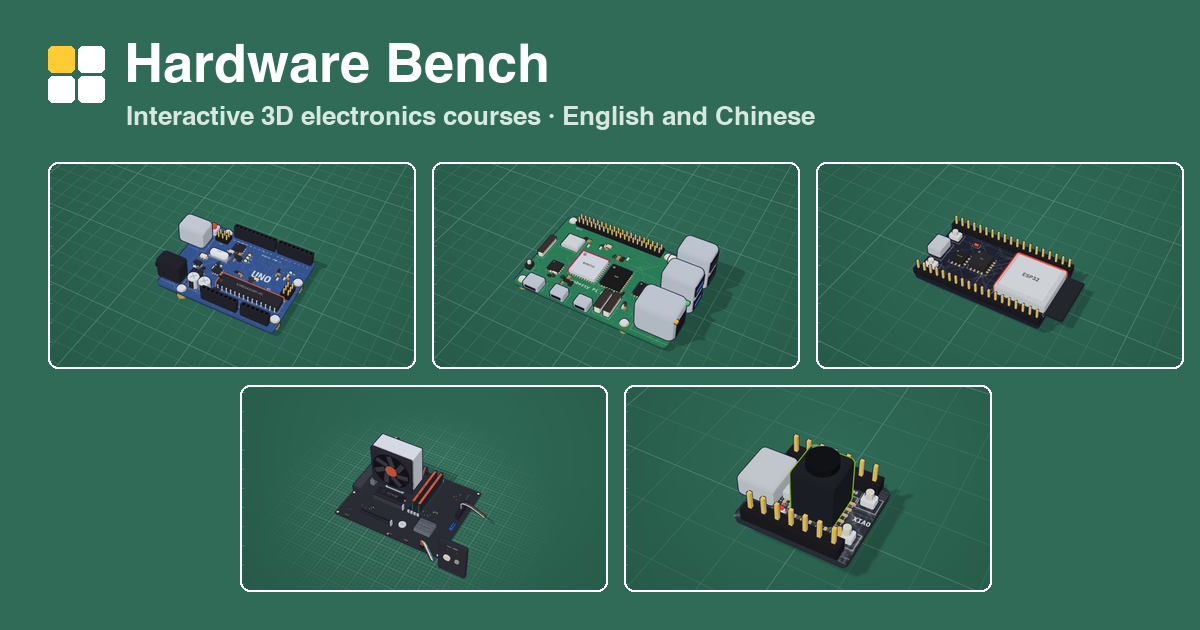
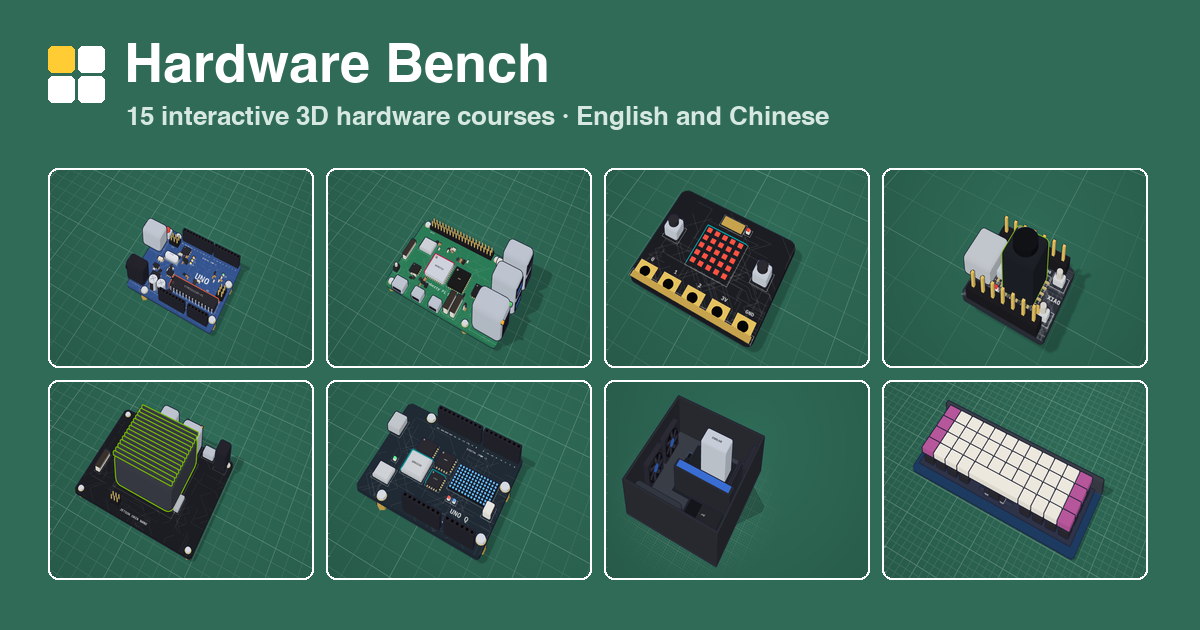
Group the hub into sections, refresh the share card, README, sitemap and skill docs

Changed region(s): [[0.0308, 0.2413, 0.9867, 0.9651], [0.0925, 0.1508, 0.7092, 0.2111], [0.9558, 0.3619, 0.9867, 0.4222]]

diff --git a/boards/boards.js b/boards/boards.js
@@ -6,66 +6,83 @@ export const LINKS = {
 
 // Boards shown on the hub home page. `id` is the folder under boards/. Lesson counts and
 // progress come from each board's content.js, so only presentation lives here.
+// Sections on the hub home page, in order; each board names its section with `group`.
+export const GROUPS = [
+  { id: 'boards', title: 'Development boards' },
+  { id: 'ai', title: 'AI boards' },
+  { id: 'builds', title: 'Hands-on builds' },
+];
+
 export const BOARDS = [
   {
-    id: 'arduino-uno', name: 'Arduino Uno', accent: '#e05a3a', level: 'Beginner', language: 'C++',
+    id: 'arduino-uno', group: 'boards', name: 'Arduino Uno', accent: '#e05a3a', level: 'Beginner', language: 'C++',
     blurb: 'Build a desk gadget in every lesson: traffic light, night light, door chime, ruler, dial gauge and a parking sensor.',
   },
   {
-    id: 'raspberry-pi', name: 'Raspberry Pi 5', accent: '#c51a4a', level: 'Beginner', language: 'Python',
+    id: 'raspberry-pi', group: 'boards', name: 'Raspberry Pi 5', accent: '#c51a4a', level: 'Beginner', language: 'Python',
     blurb: 'A full Linux computer with GPIO pins: Python, cameras, web servers and a weather station.',
   },
   {
-    id: 'esp32', name: 'ESP32-DevKitC', accent: '#e7352c', level: 'Beginner', language: 'MicroPython',
+    id: 'esp32', group: 'boards', name: 'ESP32-DevKitC', accent: '#e7352c', level: 'Beginner', language: 'MicroPython',
     blurb: 'A Wi-Fi microcontroller: flash MicroPython, read sensors and control things from your phone.',
   },
   {
-    id: 'pc-motherboard', name: 'PC build: motherboard', accent: '#3a6dd0', level: 'Beginner', language: 'Hands-on',
+    id: 'pico-2-w', group: 'boards', name: 'Raspberry Pi Pico 2 W', accent: '#c51a4a', level: 'Beginner', language: 'MicroPython',
+    blurb: 'The cheapest way to start: blink, read buttons and knobs, make sounds, then build a Wi-Fi thermometer.',
+  },
+  {
+    id: 'microbit', group: 'boards', name: 'BBC micro:bit V2', accent: '#00a3a6', level: 'Beginner', language: 'MicroPython',
+    blurb: 'Everything is built in: scroll text, make faces with the buttons, roll a dice by shaking, play music and send radio messages.',
+  },
+  {
+    id: 'nano-esp32', group: 'boards', name: 'Arduino Nano ESP32', accent: '#00878f', level: 'Beginner', language: 'C++',
+    blurb: 'A breadboard-sized Arduino with Wi-Fi: LEDs, buttons, an RGB LED, sound, an I²C sensor and a Wi-Fi weather station.',
+  },
+  {
+    id: 'xiao-esp32s3-sense', group: 'ai', name: 'XIAO ESP32S3 Sense', accent: '#7cb518', level: 'Beginner', language: 'C++',
+    blurb: 'A thumb-sized AI board with a camera and a microphone: sensors, sound levels, photos, Wi-Fi and on-device face detection.',
+  },
+  {
+    id: 'arduino-uno-q', group: 'ai', name: 'Arduino UNO Q', accent: '#00878f', level: 'Intermediate', language: 'C++ + Python',
+    blurb: 'An Uno with a Linux computer on board: sketches and Python talk over Bridge, plus the LED matrix, a phone web UI and on-board AI.',
+  },
+  {
+    id: 'pi-ai-hat', group: 'ai', name: 'Raspberry Pi 5 + AI HAT+ 2', accent: '#7a3fbf', level: 'Intermediate', language: 'Shell + Python',
+    blurb: 'Fit a 40 TOPS Hailo-10H accelerator, detect objects live from the camera and chat with a language model running on the Pi.',
+  },
+  {
+    id: 'jetson-orin-nano', group: 'ai', name: 'NVIDIA Jetson Orin Nano Super', accent: '#76b900', level: 'Advanced', language: 'Shell + Python',
+    blurb: 'A desk-sized AI computer with a CUDA GPU: install JetPack, run language models with Ollama and detect objects from a webcam.',
+  },
+  {
+    id: 'pc-motherboard', group: 'builds', name: 'PC build: motherboard', accent: '#3a6dd0', level: 'Beginner', language: 'Hands-on',
     blurb: 'Install the CPU, memory, SSD and cooler, wire the tricky front-panel pins, then take it all apart again.',
   },
   {
-    id: 'xiao-esp32s3-sense', name: 'XIAO ESP32S3 Sense', accent: '#7cb518', level: 'Beginner', language: 'C++',
-    blurb: 'A thumb-sized AI board with a camera and a microphone: sensors, sound levels, photos, Wi-Fi and on-device face detection.',
-  },  {
-    id: 'arduino-uno-q', name: 'Arduino UNO Q', accent: '#00878f', level: 'Intermediate', language: 'C++ + Python',
-    blurb: 'An Uno with a Linux computer on board: sketches and Python talk over Bridge, plus the LED matrix, a phone web UI and on-board AI.',
-  },  {
-    id: 'pico-2-w', name: 'Raspberry Pi Pico 2 W', accent: '#c51a4a', level: 'Beginner', language: 'MicroPython',
-    blurb: 'The cheapest way to start: blink, read buttons and knobs, make sounds, then build a Wi-Fi thermometer.',
-  },  {
-    id: 'pc-build', name: 'PC build: the whole PC', accent: '#3a6dd0', level: 'Beginner', language: 'Hands-on',
+    id: 'pc-build', group: 'builds', name: 'PC build: the whole PC', accent: '#3a6dd0', level: 'Beginner', language: 'Hands-on',
     blurb: 'Power supply, motherboard, graphics card, fans and cables into the case, then the first power-on and taking it apart.',
-  },  {
-    id: 'pi-ai-hat', name: 'Raspberry Pi 5 + AI HAT+ 2', accent: '#7a3fbf', level: 'Intermediate', language: 'Shell + Python',
-    blurb: 'Fit a 40 TOPS Hailo-10H accelerator, detect objects live from the camera and chat with a language model running on the Pi.',
-  },  {
-    id: 'microbit', name: 'BBC micro:bit V2', accent: '#00a3a6', level: 'Beginner', language: 'MicroPython',
-    blurb: 'Everything is built in: scroll text, make faces with the buttons, roll a dice by shaking, play music and send radio messages.',
-  },  {
-    id: 'nano-esp32', name: 'Arduino Nano ESP32', accent: '#00878f', level: 'Beginner', language: 'C++',
-    blurb: 'A breadboard-sized Arduino with Wi-Fi: LEDs, buttons, an RGB LED, sound, an I²C sensor and a Wi-Fi weather station.',
-  },  {
-    id: 'pc-upgrade', name: 'PC upgrade: graphics card and SSD', accent: '#d0563a', level: 'Beginner', language: 'Hands-on',
+  },
+  {
+    id: 'pc-upgrade', group: 'builds', name: 'PC upgrade: graphics card and SSD', accent: '#d0563a', level: 'Beginner', language: 'Hands-on',
     blurb: 'Swap a graphics card, add an M.2 NVMe SSD and a SATA SSD, then check everything works.',
-  },  {
-    id: 'jetson-orin-nano', name: 'NVIDIA Jetson Orin Nano Super', accent: '#76b900', level: 'Advanced', language: 'Shell + Python',
-    blurb: 'A desk-sized AI computer with a CUDA GPU: install JetPack, run language models with Ollama and detect objects from a webcam.',
-  },  {
-    id: 'keyboard', name: 'Mechanical keyboard build', accent: '#b8569a', level: 'Beginner', language: 'Hands-on',
+  },
+  {
+    id: 'keyboard', group: 'builds', name: 'Mechanical keyboard build', accent: '#b8569a', level: 'Beginner', language: 'Hands-on',
     blurb: 'Stabilizers, plate, switches and keycaps on a hot-swap kit, then test every key and remap it.',
-  },  {
-    id: 'soldering', name: 'Soldering basics', accent: '#c2951a', level: 'Beginner', language: 'Hands-on',
+  },
+  {
+    id: 'soldering', group: 'builds', name: 'Soldering basics', accent: '#c2951a', level: 'Beginner', language: 'Hands-on',
     blurb: 'Safety, tinning, a good joint, LEDs and header pins, spotting bad joints and fixing them, on a small LED kit.',
   },
 ];
 
-// AI boards planned next, in suggested order (researched October 2026).
+// Boards planned next, shown under their own heading only when the list is not empty.
 export const COMING = [
 ];
 
 // 简体中文 for the hub page.
 export const HUB_ZH = {
-  'Hardware Bench': '硬件学堂', 'Design inspired by': '设计灵感来自', 'Interactive, illustrated electronics courses for real boards.': '面向真实开发板的图解互动电子课程。',
+  'Hardware Bench': '硬件学堂', 'Design inspired by': '设计灵感来自', 'Interactive, illustrated courses for real hardware.': '面向真实硬件的图解互动课程。',
   'Pick a board. Every lesson shows its circuit in 3D, explains each part, and lets you run the code in a simulator before you wire anything.': '选一块板子开始。每节课都用 3D 展示电路、讲解每个零件，接线之前就能在模拟器里运行代码。',
   Boards: '开发板', 'AI boards coming next': '即将推出：AI 开发板', 'Start learning': '开始学习', 'Continue': '继续学习',
   '{n} lessons': '{n} 节课', '{a} of {b} done': '已完成 {a} / {b}', 'Coming soon': '即将推出',
@@ -74,6 +91,7 @@ export const HUB_ZH = {
   'Early release: every pin and command is checked against official documentation, but not every lesson has been run on a real board yet.': '早期版本：每个引脚和命令都对照官方文档核对过，但还不是每节课都在真实板子上跑过。',
   'Found a mistake? Tell us': '发现错误？告诉我们', 'Report a mistake': '报告错误', 'Source code': '源代码',
   'XIAO ESP32S3 Sense': 'XIAO ESP32S3 Sense',
+  'Development boards': '开发板', 'AI boards': 'AI 开发板', 'Hands-on builds': '动手装配',
   'Soldering basics': '焊接入门', 'Safety, tinning, a good joint, LEDs and header pins, spotting bad joints and fixing them, on a small LED kit.': '在一个小 LED 套件上学习：安全、上锡、焊出好焊点、焊 LED 和排针、识别并修复不良焊点。',
   'Mechanical keyboard build': '组装机械键盘', 'Stabilizers, plate, switches and keycaps on a hot-swap kit, then test every key and remap it.': '在热插拔套件上装卫星轴、定位板、轴体和键帽，然后测试每个键，再改键。',
   'A desk-sized AI computer with a CUDA GPU: install JetPack, run language models with Ollama and detect objects from a webcam.': '放在桌上的 AI 电脑，带 CUDA GPU：安装 JetPack，用 Ollama 运行语言模型，再用摄像头检测物体。',

diff --git a/hub.js b/hub.js
@@ -1,5 +1,5 @@
 // Hub home page: board cards with live lesson counts and progress, plus the AI boards coming next.
-import { BOARDS, COMING, HUB_ZH, LINKS } from './boards/boards.js';
+import { BOARDS, COMING, GROUPS, HUB_ZH, LINKS } from './boards/boards.js';
 import { t, lang, setLang, addDict, observe } from './engine/i18n.js';
 
 addDict(HUB_ZH);
@@ -16,22 +16,25 @@ function readDone(siteId) {
 }
 
 async function renderBoards() {
-  const cards = await Promise.all(BOARDS.map(async (b) => {
-    const { SITE, LESSONS } = await import(`./boards/${b.id}/content.js`);
-    const done = readDone(SITE.id);
-    const pct = Math.round((done / LESSONS.length) * 100);
-    return `<a class="hub-card" href="boards/${b.id}/" style="--card: ${b.accent}">
-      <img class="hub-cover" src="boards/${b.id}/cover.png" alt="" loading="lazy">
-      <div class="hub-card-body">
-        <div class="hub-meta"><span class="chip-tag">${esc(b.level)}</span><span class="chip-tag mono">${esc(b.language)}</span><span class="hub-count">${esc(t('{n} lessons', { n: LESSONS.length }))}</span></div>
-        <h3>${esc(b.name)}</h3>
-        <p>${esc(b.blurb)}</p>
-        <div class="hub-progress"><span class="progress-track"><span class="progress-fill" style="width:${pct}%"></span></span><small>${esc(t('{a} of {b} done', { a: done, b: LESSONS.length }))}</small></div>
-        <span class="btn">${esc(t(done ? 'Continue' : 'Start learning'))} →</span>
-      </div>
-    </a>`;
-  }));
-  $('#boards').innerHTML = cards.join('');
+  const cards = await Promise.all(BOARDS.map(async (b) => [b.group, await card(b)]));
+  $('#boards').innerHTML = GROUPS.map((g) => `<h2 class="hub-h">${esc(t(g.title))}</h2>
+    <div class="hub-grid">${cards.filter(([group]) => group === g.id).map(([, html]) => html).join('')}</div>`).join('');
+}
+
+async function card(b) {
+  const { SITE, LESSONS } = await import(`./boards/${b.id}/content.js`);
+  const done = readDone(SITE.id);
+  const pct = Math.round((done / LESSONS.length) * 100);
+  return `<a class="hub-card" href="boards/${b.id}/" style="--card: ${b.accent}">
+    <img class="hub-cover" src="boards/${b.id}/cover.png" alt="" loading="lazy">
+    <div class="hub-card-body">
+      <div class="hub-meta"><span class="chip-tag">${esc(b.level)}</span><span class="chip-tag mono">${esc(b.language)}</span><span class="hub-count">${esc(t('{n} lessons', { n: LESSONS.length }))}</span></div>
+      <h3>${esc(b.name)}</h3>
+      <p>${esc(b.blurb)}</p>
+      <div class="hub-progress"><span class="progress-track"><span class="progress-fill" style="width:${pct}%"></span></span><small>${esc(t('{a} of {b} done', { a: done, b: LESSONS.length }))}</small></div>
+      <span class="btn">${esc(t(done ? 'Continue' : 'Start learning'))} →</span>
+    </div>
+  </a>`;
 }
 
 function renderComing() {

diff --git a/index.html b/index.html
@@ -4,12 +4,12 @@
   <meta charset="utf-8">
   <meta name="viewport" content="width=device-width, initial-scale=1">
   <title>Hardware Bench</title>
-  <meta name="description" content="Free, interactive 3D electronics courses in English and Chinese: Arduino Uno, Raspberry Pi 5, ESP32, the XIAO ESP32S3 Sense AI board and building a PC. No account needed.">
+  <meta name="description" content="Free, interactive 3D hardware courses in English and Chinese: Arduino, Raspberry Pi, ESP32, micro:bit and Pico, AI boards from the XIAO Sense to Jetson, and hands-on builds from soldering to a whole PC. No account needed.">
   <link rel="canonical" href="https://majiayu000.github.io/hardware-bench/">
   <meta property="og:type" content="website">
   <meta property="og:site_name" content="Hardware Bench">
   <meta property="og:title" content="Hardware Bench">
-  <meta property="og:description" content="Free, interactive 3D electronics courses in English and Chinese: Arduino Uno, Raspberry Pi 5, ESP32, the XIAO ESP32S3 Sense AI board and building a PC. No account needed.">
+  <meta property="og:description" content="Free, interactive 3D hardware courses in English and Chinese: Arduino, Raspberry Pi, ESP32, micro:bit and Pico, AI boards from the XIAO Sense to Jetson, and hands-on builds from soldering to a whole PC. No account needed.">
   <meta property="og:url" content="https://majiayu000.github.io/hardware-bench/">
   <meta property="og:image" content="https://majiayu000.github.io/hardware-bench/og.png">
   <meta name="twitter:card" content="summary_large_image">
@@ -33,14 +33,13 @@
 
   <main class="hub-main">
     <section class="hub-hero">
-      <h1>Interactive, illustrated electronics courses for real boards.</h1>
+      <h1>Interactive, illustrated courses for real hardware.</h1>
       <p>Pick a board. Every lesson shows its circuit in 3D, explains each part, and lets you run the code in a simulator before you wire anything.</p>
       <p class="hub-small">No account needed: progress stays in this browser.</p>
       <p class="hub-note">Early release: every pin and command is checked against official documentation, but not every lesson has been run on a real board yet. <a data-link="issues" target="_blank" rel="noopener">Found a mistake? Tell us</a></p>
     </section>
 
-    <h2 class="hub-h">Boards</h2>
-    <div class="hub-grid" id="boards"></div>
+    <div id="boards"></div>
 
     <h2 class="hub-h" id="comingTitle">AI boards coming next</h2>
     <div class="hub-grid coming" id="coming"></div>

diff --git a/skill/references/content-schema.md b/skill/references/content-schema.md
@@ -68,7 +68,7 @@ export const BOARD = {
 | `label`, `desc` | shown in tooltips, popovers, the Parts list and the `tour` sim; `desc` is one beginner-level sentence |
 | `shape` | `box` (needs `w`, `d`, `h`) or `cylinder` (`w` is the diameter) |
 | `x`, `z` | centre of the part. Ports may overhang the PCB edge |
-| `kind` | adds structure: `chip` (pads, pin-1 dot), `shield` (lid), `usb` (two openings; `accent` colours the tongues), `usbc`, `hdmi`, `ethernet` (opening + LEDs), `jst`, `fpc` (latch), `button` (cap; `accent`), and through-hole: `dip` (legs + notch), `crystal`, `electrolytic` (scored top; `accent` stripe), `usbb`, `dcjack`, `regulator` (tab), `ledsmd` (`accent` lens, `lit: true` glows). Port openings face the nearest board edge. PC boards add `socket` (CPU socket with pin-1 triangle), `slot` (DIMM or PCIe; runs along its longer side, `latches: 'both' \| 'end'`, `accent` latch colour), `m2slot` (`reach`: mm to the standoff), `heatsink` (`fins: 'x' \| 'z'`), `atx` (power connector, `grid: [cols, rows]` of square holes) and `iocluster` (rear ports) |
+| `kind` | adds structure: `chip` (pads, pin-1 dot), `shield` (lid), `usb` (two openings; `accent` colours the tongues), `usbc`, `hdmi`, `ethernet` (opening + LEDs), `jst`, `fpc` (latch), `button` (cap; `accent`), and through-hole: `dip` (legs + notch), `crystal`, `electrolytic` (scored top; `accent` stripe), `usbb`, `dcjack`, `regulator` (tab), `ledsmd` (`accent` lens, `lit: true` glows). Port openings face the nearest board edge. PC boards add `socket` (CPU socket with pin-1 triangle), `slot` (DIMM or PCIe; runs along its longer side, `latches: 'both' \| 'end'`, `accent` latch colour), `m2slot` (`reach`: mm to the standoff), `heatsink` (`fins: 'x' \| 'z'`), `atx` (power connector, `grid: [cols, rows]` of square holes) and `iocluster` (rear ports). `ledmatrix` draws a grid of small LEDs (`grid: [cols, rows]`, `accent` colour) |
 | `under: true` | part sits under the PCB (an SD slot, for example). It can still be a callout target |
 | `text`, `textSize`, `textColor` | optional marking printed on top; keep chip markings small and grey, like real silkscreen |
 
@@ -79,7 +79,8 @@ Model the parts a beginner should recognise. That is about 8 on a small dev boar
 ```js
 { id: 'gpio', label: '40-pin GPIO header', short: 'GPIO', desc: '…',
   layout: 'dual',          // 'dual': odd pins on row 1, even on row 2 (Pi style). 'single': one strip
-  style: 'male',           // 'male' (gold pins; jumpers use female ends) or 'female' (Arduino sockets)
+  style: 'male',           // 'male' (gold pins; jumpers use female ends), 'female' (Arduino sockets) or 'pad'
+                           // (flat contacts: micro:bit rings, solder pads; add padW, padD and optional padHole, mm)
   pitch: 2.54,
   x: 8.37, z: 4.77,        // centre of physical pin 1
   step: [2.54, 0],         // [dx, dz] to the next column (dual) or next pin (single)
@@ -87,6 +88,8 @@ Model the parts a beginner should recognise. That is about 8 on a small dev boar
   pins: [{ n: 1, name: '3V3', type: 'power3' }, { n: 3, name: 'GPIO2', alt: 'SDA', type: 'i2c' }, …] }
 ```
 
+- A board with no pin headers at all (a PC case, a keyboard) uses `headers: []`; its lessons then have no Pinout tab.
+- A course for an add-on (a HAT, a graphics card upgrade) can reuse another board's model: `import { BOARD, PIN_TYPES } from '../<board>/content.js'` and re-export them.
 - Pins are numbered `1..N` with no gaps, and `n` is the **physical** pin number. Lessons refer to pins as `"<headerId>:<n>"`.
 - A keyed position with no pin (PC front-panel, USB and audio headers) is still listed, with `missing: true`: it is drawn as an empty hole and still shows in the pinout table.
 - Boards with separate strips (Arduino: power, analog, digital; ESP32 DevKit: J2 and J3) get one `single` header per strip.
@@ -176,6 +179,8 @@ circuit: {
 | `powerplug` | `connector`: an `atx` component; `strands`, `colors`, `exit`, `reach` | none |
 | `casepanel` | `at: { x, z }` on the table; `w`, `color`, `label` | `{ power, hdd }` LEDs |
 | `casebutton` | `at`, `y` (height on the panel), `size`, `color`, `label` | `{ pressed }`; pressable in the scene |
+| `block` | Any part without its own model, built from rounded boxes: `at: { x, z }`, `w`, `d`, `h`, `y` (base above the board top; `table: true` measures from the table), `color`, `text`, `opacity` (glass), `round`, `boxes: [{ x, z, y, w, d, h, color, text }]` placed relative to it (`y` above its top), `insert: [dx, dy, dz]` | none (`shown` / `lift` only) |
+| `fan` | A case fan: `at`, `y`, `table`, `size` (mm), `facing: 'up' \| 'x' \| '-x' \| 'z' \| '-z'`, `color`, `accent` | `{ spin }` 0–1 |
 
 Keep the case panel off the line between the camera and the headers it is wired to (beside the board, not in front of it), or it hides the plugs.
 
@@ -258,6 +263,9 @@ Every string a sim prints can be overridden in its config, so no board's wording
 | `buzzer` | `buzzer`, `melody: [[name, hz, ms]]` (hz 0 = rest), `pin`, `log` | plays the melody; optional quiet Web Audio sound |
 | `servo` | `servo`, `min`, `max`, `step`, `every` | sweeps; slider / popover sets the angle when stopped |
 | `parking` | `sensor`, `buzzer`, `led`, `near`, `max` | beeps faster as the object gets closer; LED under `near` |
+| `matrix` | `frames: [{ rows: ['0070…'] (one string per row, digits 0–7), ms, log, trace }]`, `color`, `caption` | plays the frames on a dot-matrix panel (LED matrices, the micro:bit display). Each frame's `trace` is a code-trace label |
+| `detect` | `objects: [{ label, box: [x, y, w, h] (0–1 of the frame), score, color, fill }]`, `fps`, `start`, `caption` | a camera frame with labelled boxes that jitter like a live detector; logs `label score` |
+| `chat` | `model`, `chats: [{ q, a }]`, `path`, `start`, `caption` | a chat window: Run starts the “server”, each question streams its example answer word by word. Trace labels `serve`, `ask`, `reply` |
 | `sequence` | `lamps` (LED ids shown in the panel), `steps: [{ set: { ledId: true \| false }, tone, ms, log, trace }]`, optional `buzzer`, `button`, `idle` | timed light and tone patterns (traffic lights, chimes). Without `button` it loops; with one, Run waits in `idle` and each press plays the steps once. `log` is what the sketch prints; each step's `trace` is a code-trace label |
 | `assembly` | `steps: [{ do: 'insert' \| 'remove' \| 'set', parts: [ids], text, zoom, pins, from, to, seconds }]`, `mode: 'assemble' \| 'disassemble'`, `done` | a step-by-step "video" player (play, pause, step, scrub). `insert` lowers parts into place, `remove` lifts them out, `set` tweens state such as `{ open }` from `from` to `to`. `zoom` is the part the camera moves to; `pins` are highlighted. In `assemble` mode the scene outside Try it shows the finished build |
 | `boot` | `power`, `reset` (casebutton ids), `panel`, `fans`, `powerPins`, `resetPins`, `post` (log lines) | power and reset buttons, in the panel or in 3D: fans spin, LEDs light, POST lines print; holding power 4 s forces it off |

diff --git a/skill/SKILL.md b/skill/SKILL.md
@@ -15,7 +15,7 @@ template/
   boards/<id>/           one board: index.html, content.js, zh.js, cover.png
 ```
 
-Your job is **content** for one board folder: `content.js` (board model, pin map, lessons, circuits, callouts, code) and `zh.js` (its Chinese translations). The boards in the template are complete worked examples; read the closest one first: Arduino Uno, Raspberry Pi 5 and ESP32-DevKitC for electronics courses with a breadboard, `xiao-esp32s3-sense` for a tiny AI board with an onboard camera and microphone (Arduino C++, a no-code model-deployment lesson), and `pc-motherboard` for an assembly course (no code: parts drop into sockets and slots, an `assembly` sim plays each step like a video, and a `boot` sim presses the case power button). `references/content-schema.md` is the field-by-field contract.
+Your job is **content** for one board folder: `content.js` (board model, pin map, lessons, circuits, callouts, code) and `zh.js` (its Chinese translations). The boards in the template are complete worked examples; read the closest one first: Arduino Uno, Raspberry Pi 5 and ESP32-DevKitC for electronics courses with a breadboard, `xiao-esp32s3-sense` for a tiny AI board with an onboard camera and microphone (Arduino C++, a no-code model-deployment lesson), `pc-motherboard` for an assembly course (no code: parts drop into sockets and slots, an `assembly` sim plays each step like a video, and a `boot` sim presses the case power button). For other builds, `pc-build`, `keyboard` and `soldering` show assemblies made only from generic `block` parts; `microbit` uses `pad` contacts and the `matrix` sim; `arduino-uno-q`, `pi-ai-hat` and `jetson-orin-nano` show two-processor boards, add-on accelerators and the `detect` / `chat` AI sims. `references/content-schema.md` is the field-by-field contract.
 
 ## Workflow
 
@@ -41,7 +41,7 @@ Your job is **content** for one board folder: `content.js` (board model, pin map
 3. **Create the board folder.**
    - New hub: `cp -R <this-skill-dir>/template <hub-dir>`, then delete example boards you don't want and their entries in `boards/boards.js`. Point `LINKS` in `boards/boards.js` at the new hub's own repository and issue tracker, and replace the canonical / `og:` URLs in every `index.html`, `robots.txt` and `sitemap.xml` with the new site's address.
    - Existing hub: `cp -R <hub>/boards/<closest example> <hub>/boards/<new-id>`.
-   - Add the board to `BOARDS` in `boards/boards.js` (and its blurb to `HUB_ZH`).
+   - Add the board to `BOARDS` in `boards/boards.js` with its `group` (a section in `GROUPS`: development boards, AI boards, hands-on builds), and its name and blurb to `HUB_ZH`.
 
 4. **Write `content.js`** following the schema:
    - `SITE`, `PIN_TYPES` and `BOARD`, with headers oriented as the schema describes.
